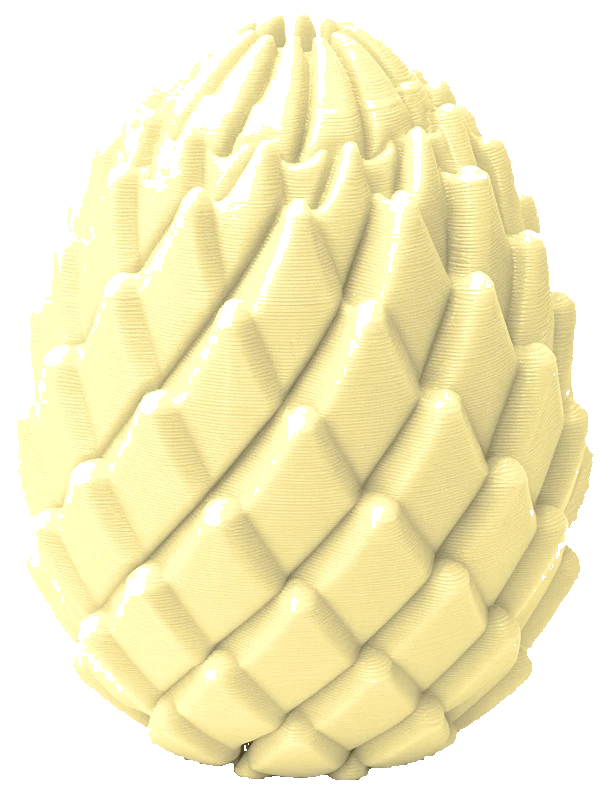
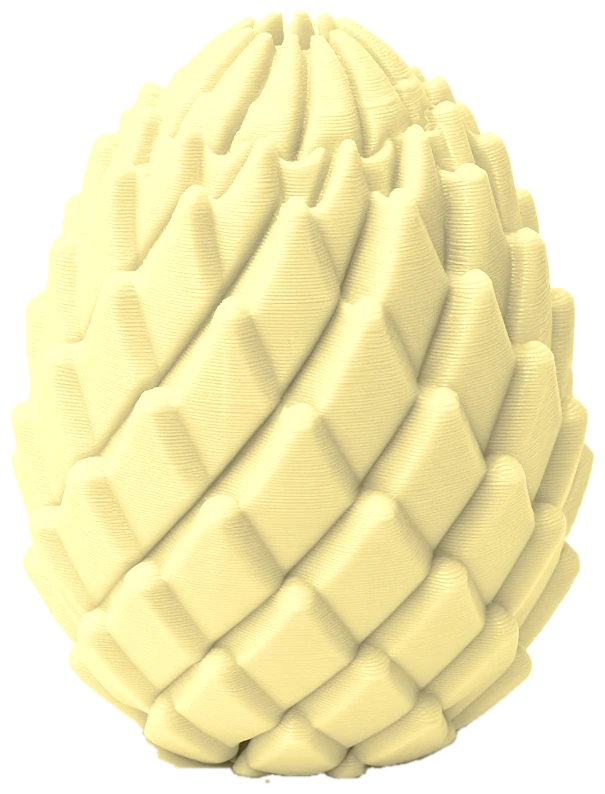
Fidgets: página de catálogo (tarjetas por modelo, fácil de sumar nuevos) y recorte del huevo sin huecos
Claude-Session: https://claude.ai/code/session_01CakWamoGNygWeoKn5u5X5H

diff --git a/fidgets/index.html b/fidgets/index.html
@@ -121,6 +121,33 @@ img{max-width:100%;height:auto;display:block}
 .prev{margin:26px auto 0;width:min(260px,70vw)}
 .prev img{width:100%}
 
+
+/* catálogo */
+.cat{padding:30px 0 20px}
+.cathead{display:flex;align-items:baseline;justify-content:space-between;gap:12px;margin-bottom:18px}
+.cathead h2{font-size:clamp(28px,4vw,40px);font-weight:700;letter-spacing:-.04em}
+.cathead span{color:var(--fg3);font-size:15px}
+.cgrid{display:grid;grid-template-columns:repeat(auto-fill,minmax(min(100%,300px),1fr));gap:14px}
+.card{position:relative;border-radius:28px;overflow:hidden;background:var(--card);border:1px solid var(--line);display:flex;flex-direction:column;transition:transform .35s var(--ease),box-shadow .35s var(--ease)}
+.card:hover{transform:translateY(-4px);box-shadow:0 24px 50px -24px rgba(80,90,150,.35)}
+.card .ph{position:relative;aspect-ratio:1/1;display:grid;place-items:center;background:radial-gradient(70% 70% at 50% 45%,#ffffff 0%,var(--tint,#e6f2fc) 100%)}
+@media (prefers-color-scheme:dark){:root:not([data-theme="light"]) .card .ph{background:radial-gradient(70% 70% at 50% 45%,#2a3048 0%,#1b1f33 100%)}}
+:root[data-theme="dark"] .card .ph{background:radial-gradient(70% 70% at 50% 45%,#2a3048 0%,#1b1f33 100%)}
+.card .ph img{width:58%;filter:drop-shadow(0 22px 20px rgba(70,110,160,.25));transition:transform .5s var(--ease)}
+.card:hover .ph img{transform:translateY(-6px) rotate(-3deg)}
+.card .badge{position:absolute;left:16px;top:16px;font-size:12px;font-weight:600;padding:4px 10px;border-radius:980px;background:var(--pink);color:#7a2850}
+.card .bd{padding:18px 20px 20px;display:flex;flex-direction:column;gap:4px}
+.card h3{font-size:22px;font-weight:700;letter-spacing:-.03em}
+.card p{color:var(--fg2);font-size:15px}
+.card .row{display:flex;align-items:center;justify-content:space-between;margin-top:10px;gap:10px}
+.dots{display:flex;gap:8px}
+.dots button{width:22px;height:22px;border-radius:50%;border:0;padding:0;cursor:pointer;box-shadow:inset 0 -3px 6px rgba(0,0,0,.08);outline:2px solid transparent;outline-offset:2px}
+.dots button[aria-pressed="true"]{outline-color:var(--fg)}
+.card .pr{font-size:14px;font-weight:600;color:var(--fg3)}
+.card.ghost{border-style:dashed;background:transparent;justify-content:center;align-items:center;min-height:280px;text-align:center;color:var(--fg3)}
+.card.ghost:hover{transform:none;box-shadow:none}
+.card.ghost svg{width:46px;height:56px;opacity:.35;margin-bottom:10px}
+
 /* próximos */
 .next{padding:60px 0 30px}
 .nbox{border-radius:32px;padding:clamp(28px,5vw,56px);text-align:center;background:linear-gradient(120deg,#e3f1fc,#fbe4ef 55%,#ece5fb)}
@@ -149,7 +176,7 @@ footer a{color:var(--fg2);text-decoration:underline}
     <a class="k on" href="/fidgets/">Fidgets</a>
     <a class="k" href="/clickly/">Clickly</a>
     <span class="sp"></span>
-    <a class="k" href="#egg-info">Sensorial Egg</a>
+    <a class="k" href="#catalogo">Ver todos</a>
   </div>
 </nav>
 
@@ -160,79 +187,22 @@ footer a{color:var(--fg2);text-decoration:underline}
       <div class="eye">NiDoo presenta</div>
       <h1>Fidgets</h1>
       <p class="lead">Objetos para tus manos. Suaves, satisfactorios y con un sonido que no vas a poder dejar de escuchar.</p>
-      <div class="chips" aria-hidden="true"><span>Impresos en 3D</span><span>Cuatro colores pastel</span><span>Hechos en Argentina</span></div>
+      <div class="chips" aria-hidden="true"><span>Impresos en 3D</span><span>Colores pastel</span><span>Hechos en Argentina</span></div>
     </div>
   </header>
 
-  <section class="feat" id="egg-info">
+  <section class="cat" id="catalogo">
     <div class="wrap">
-      <div class="stage rv">
-        <div class="egg">
-          <i class="ring" style="width:118%;aspect-ratio:1"></i><i class="ring" style="width:88%;aspect-ratio:1;animation-direction:reverse;animation-duration:30s"></i>
-          <img id="eggImg" src="sensorial-egg.webp?v=2" width="609" height="807" alt="Sensorial Egg: huevo celeste impreso en 3D, con escamas en espiral">
-        </div>
-        <div class="info">
-          <span class="tag">Fidget N.º 1 · Nuevo</span>
-          <h2>Sensorial <em>Egg</em></h2>
-          <p class="d">Un huevo que se transforma. Lo girás, las escamas se acomodan y se vuelve una espiral, con un sonido suave que te calma.</p>
-          <div class="price"><a class="btn" href="https://www.instagram.com/clickly_oficial/" target="_blank" rel="noopener">Avisame cuando salga</a><span class="soon">Próximamente</span></div>
-        </div>
-      </div>
-    </div>
-  </section>
-
-  <section class="how">
-    <div class="wrap">
-      <h3 class="rv">Girás. Suena. Se transforma.</h3>
-      <p class="s rv">Así funciona el Sensorial Egg.</p>
-      <div class="steps">
-        <div class="step rv"><span class="n">1</span>
-          <svg viewBox="0 0 120 120" aria-hidden="true"><path d="M58 18c-20 1-34 26-34 50 0 20 15 34 36 34s36-13 36-33c0-27-17-52-38-51Z" fill="#dceefc" stroke="#7fbfea" stroke-width="3"/>
-          <path d="M30 70q30-14 60 0M28 54q32-14 64 0M34 38q26-12 52 0M30 86q30-12 60 0" fill="none" stroke="#a9d6f5" stroke-width="3" stroke-linecap="round"/></svg>
-          <b>Sostenelo</b><span>Entra justo en la palma de la mano.</span></div>
-        <div class="step rv"><span class="n">2</span>
-          <svg viewBox="0 0 120 120" aria-hidden="true"><g class="twist"><path d="M58 18c-20 1-34 26-34 50 0 20 15 34 36 34s36-13 36-33c0-27-17-52-38-51Z" fill="#fde3ee" stroke="#ee8fb6" stroke-width="3"/>
-          <path d="M40 32 L80 88M30 52 L70 100M52 22 L92 72" stroke="#f6b8d1" stroke-width="3" stroke-linecap="round"/></g>
-          <g fill="#ee8fb6"><circle class="wave" cx="104" cy="40" r="4"/><circle class="wave" cx="110" cy="56" r="3"/><circle class="wave" cx="104" cy="72" r="4"/></g></svg>
-          <b>Girá</b><span>Las escamas giran con un sonido suave.</span></div>
-        <div class="step rv"><span class="n">3</span>
-          <svg viewBox="0 0 120 120" aria-hidden="true" class="spiral"><path d="M60 60m0 0a4 4 0 0 1 8 0a10 10 0 0 1-18 4a16 16 0 0 1 26-18a24 24 0 0 1-10 38a32 32 0 0 1-40-28a40 40 0 0 1 48-40a46 46 0 0 1 36 52" fill="none" stroke="#cbbcf3" stroke-width="6" stroke-linecap="round"/></svg>
-          <b>Espiral</b><span>Se transforma en una espiral hipnótica.</span></div>
-      </div>
-    </div>
-  </section>
-
-  <section class="feats">
-    <div class="wrap">
-      <h3 class="rv">Hecho para tus manos.</h3>
-      <div class="fg">
-        <div class="f a rv"><i aria-hidden="true"><svg viewBox="0 0 32 32"><path d="M16 16m0 0a2 2 0 0 1 4 0a5 5 0 0 1-9 2a8 8 0 0 1 13-9a12 12 0 0 1-5 19a15 15 0 0 1-16-14" fill="none" stroke="currentColor" stroke-width="2.4" stroke-linecap="round"/></svg></i><b>Se transforma</b><span>De huevo a espiral, y de vuelta.</span></div>
-        <div class="f b rv"><i aria-hidden="true"><svg viewBox="0 0 32 32"><path d="M6 13v6M11 9v14M16 5v22M21 9v14M26 13v6" stroke="currentColor" stroke-width="2.4" stroke-linecap="round"/></svg></i><b>Sonido suave</b><span>Un sonido relajante en cada giro.</span></div>
-        <div class="f c rv"><i aria-hidden="true"><svg viewBox="0 0 32 32"><path d="M8 20l8-14 8 14M4 27l6-10 6 10 6-10 6 10" fill="none" stroke="currentColor" stroke-width="2.4" stroke-linejoin="round" stroke-linecap="round"/></svg></i><b>Textura sensorial</b><span>Escamas para recorrer con los dedos.</span></div>
-        <div class="f e rv"><i aria-hidden="true"><svg viewBox="0 0 32 32"><path d="M6 25h20M8 20h16M10 15h12M12 10h8" stroke="currentColor" stroke-width="2.6" stroke-linecap="round"/></svg></i><b>Impreso en 3D</b><span>Capa por capa, en Argentina.</span></div>
-      </div>
-    </div>
-  </section>
-
-  <section class="cols">
-    <div class="wrap">
-      <h3 class="rv">Colores pastel.</h3>
-      <p class="s rv">Celeste pastel, lavanda, rosa pastel y amarillo pastel. Tocá uno para verlo.</p>
-      <div class="sw rv" role="group" aria-label="Colores">
-        <button aria-pressed="true" data-src="sensorial-egg.webp?v=2"><i style="background:#b9dcf2"></i>Celeste pastel</button>
-        <button aria-pressed="false" data-src="egg-lavanda.webp"><i style="background:#cdbff0"></i>Lavanda</button>
-        <button aria-pressed="false" data-src="egg-rosa.webp"><i style="background:#f4bfd6"></i>Rosa pastel</button>
-        <button aria-pressed="false" data-src="egg-amarillo.webp"><i style="background:#f9e79a"></i>Amarillo pastel</button>
-      </div>
-      <div class="prev"><img id="swImg" src="sensorial-egg.webp?v=2" width="609" height="807" alt="Sensorial Egg en el color elegido"></div>
+      <div class="cathead rv"><h2>Todos los fidgets</h2><span id="catN"></span></div>
+      <div class="cgrid" id="cgrid"></div>
     </div>
   </section>
 
   <section class="next">
     <div class="wrap">
       <div class="nbox rv">
-        <h3>Este es solo el primero.</h3>
-        <p>Vienen más fidgets NiDoo. Seguinos para enterarte antes que nadie.</p>
+        <h3>Vienen más.</h3>
+        <p>Seguinos para enterarte antes que nadie de cada fidget nuevo.</p>
         <div class="ctas"><a class="btn" href="https://www.instagram.com/clickly_oficial/" target="_blank" rel="noopener">Seguinos en Instagram</a><a class="btn soft" href="/clickly/">Ver los pops de Clickly</a></div>
       </div>
     </div>
@@ -246,8 +216,22 @@ footer a{color:var(--fg2);text-decoration:underline}
 <script>
 const io=new IntersectionObserver(es=>es.forEach(e=>{if(e.isIntersecting){e.target.classList.add('in');io.unobserve(e.target)}}),{threshold:.15});
 document.querySelectorAll('.rv').forEach(el=>io.observe(el));
-const sw=[...document.querySelectorAll('.sw button')],im=document.getElementById('swImg');
-sw.forEach(b=>{const pre=new Image();pre.src=b.dataset.src;b.addEventListener('click',()=>{sw.forEach(x=>x.setAttribute('aria-pressed',x===b));im.src=b.dataset.src})});
+/* Para sumar un fidget nuevo: agregá un objeto a FIDGETS */
+const FIDGETS=[
+ {id:'egg',nombre:'Sensorial Egg',desc:'Lo girás y se vuelve espiral.',badge:'Nuevo',precio:'Próximamente',tint:'#e3f0fc',
+  colores:[['Celeste pastel','#b9dcf2','sensorial-egg.webp?v=3'],['Lavanda','#cdbff0','egg-lavanda.webp?v=2'],['Rosa pastel','#f4bfd6','egg-rosa.webp?v=2'],['Amarillo pastel','#f9e79a','egg-amarillo.webp?v=2']]}
+];
+const G=document.getElementById('cgrid');
+G.innerHTML=FIDGETS.map(f=>`<article class="card rv" data-id="${f.id}" style="--tint:${f.tint}">
+  <div class="ph">${f.badge?`<span class="badge">${f.badge}</span>`:''}<img src="${f.colores[0][2]}" alt="${f.nombre}, color ${f.colores[0][0]}" width="609" height="807" loading="lazy"></div>
+  <div class="bd"><h3>${f.nombre}</h3><p>${f.desc}</p>
+  <div class="row"><div class="dots" role="group" aria-label="Colores de ${f.nombre}">${f.colores.map((c,k)=>`<button aria-pressed="${k===0}" title="${c[0]}" aria-label="${c[0]}" data-k="${k}" style="background:${c[1]}"></button>`).join('')}</div><span class="pr">${f.precio}</span></div></div>
+ </article>`).join('')+`<div class="card ghost rv"><svg viewBox="0 0 26 32" aria-hidden="true"><use href="#egg"/></svg><b style="color:var(--fg2)">Próximo fidget</b><span style="font-size:14px">Muy pronto</span></div>`;
+document.getElementById('catN').textContent=FIDGETS.length+(FIDGETS.length===1?' modelo':' modelos');
+G.querySelectorAll('.card[data-id]').forEach(card=>{const f=FIDGETS.find(x=>x.id===card.dataset.id),img=card.querySelector('img'),bs=[...card.querySelectorAll('.dots button')];
+ f.colores.forEach(c=>{const p=new Image();p.src=c[2]});
+ bs.forEach(b=>b.addEventListener('click',()=>{const c=f.colores[b.dataset.k];bs.forEach(x=>x.setAttribute('aria-pressed',x===b));img.src=c[2];img.alt=f.nombre+', color '+c[0]}))});
+G.querySelectorAll('.rv').forEach(el=>io.observe(el));
 </script>
 </body>
 </html>
